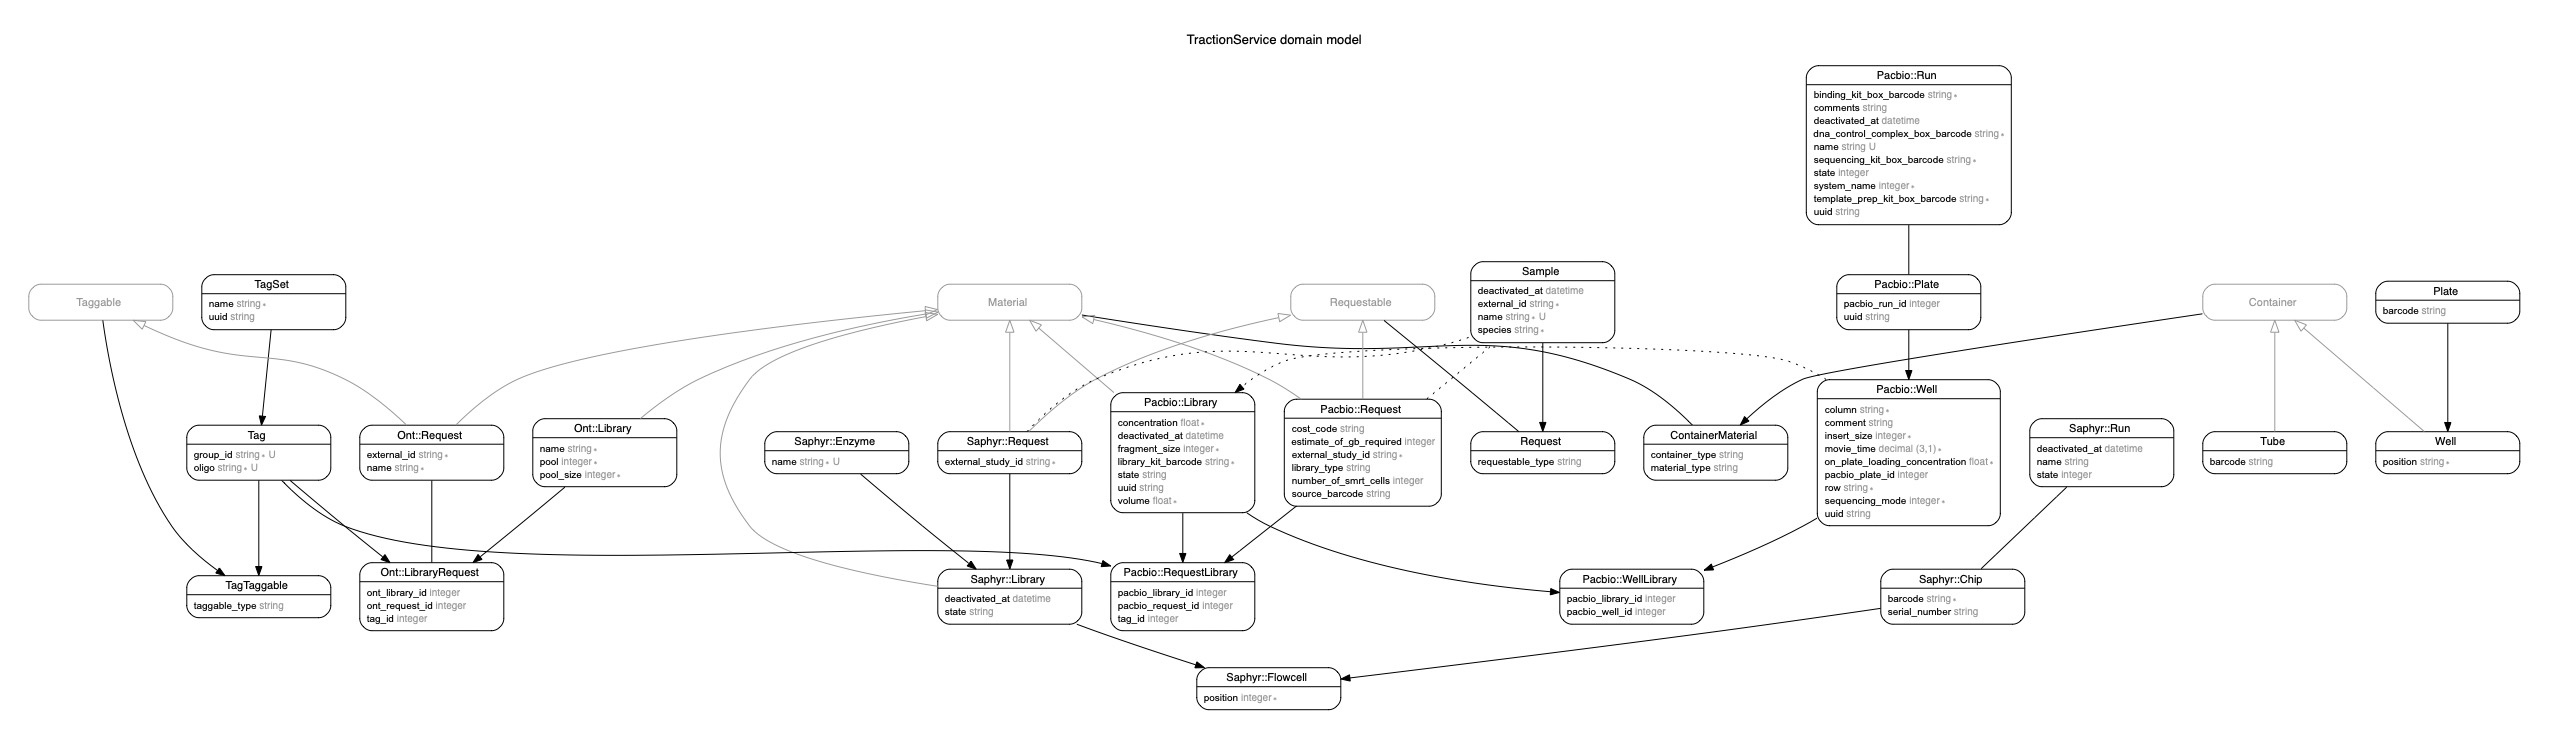
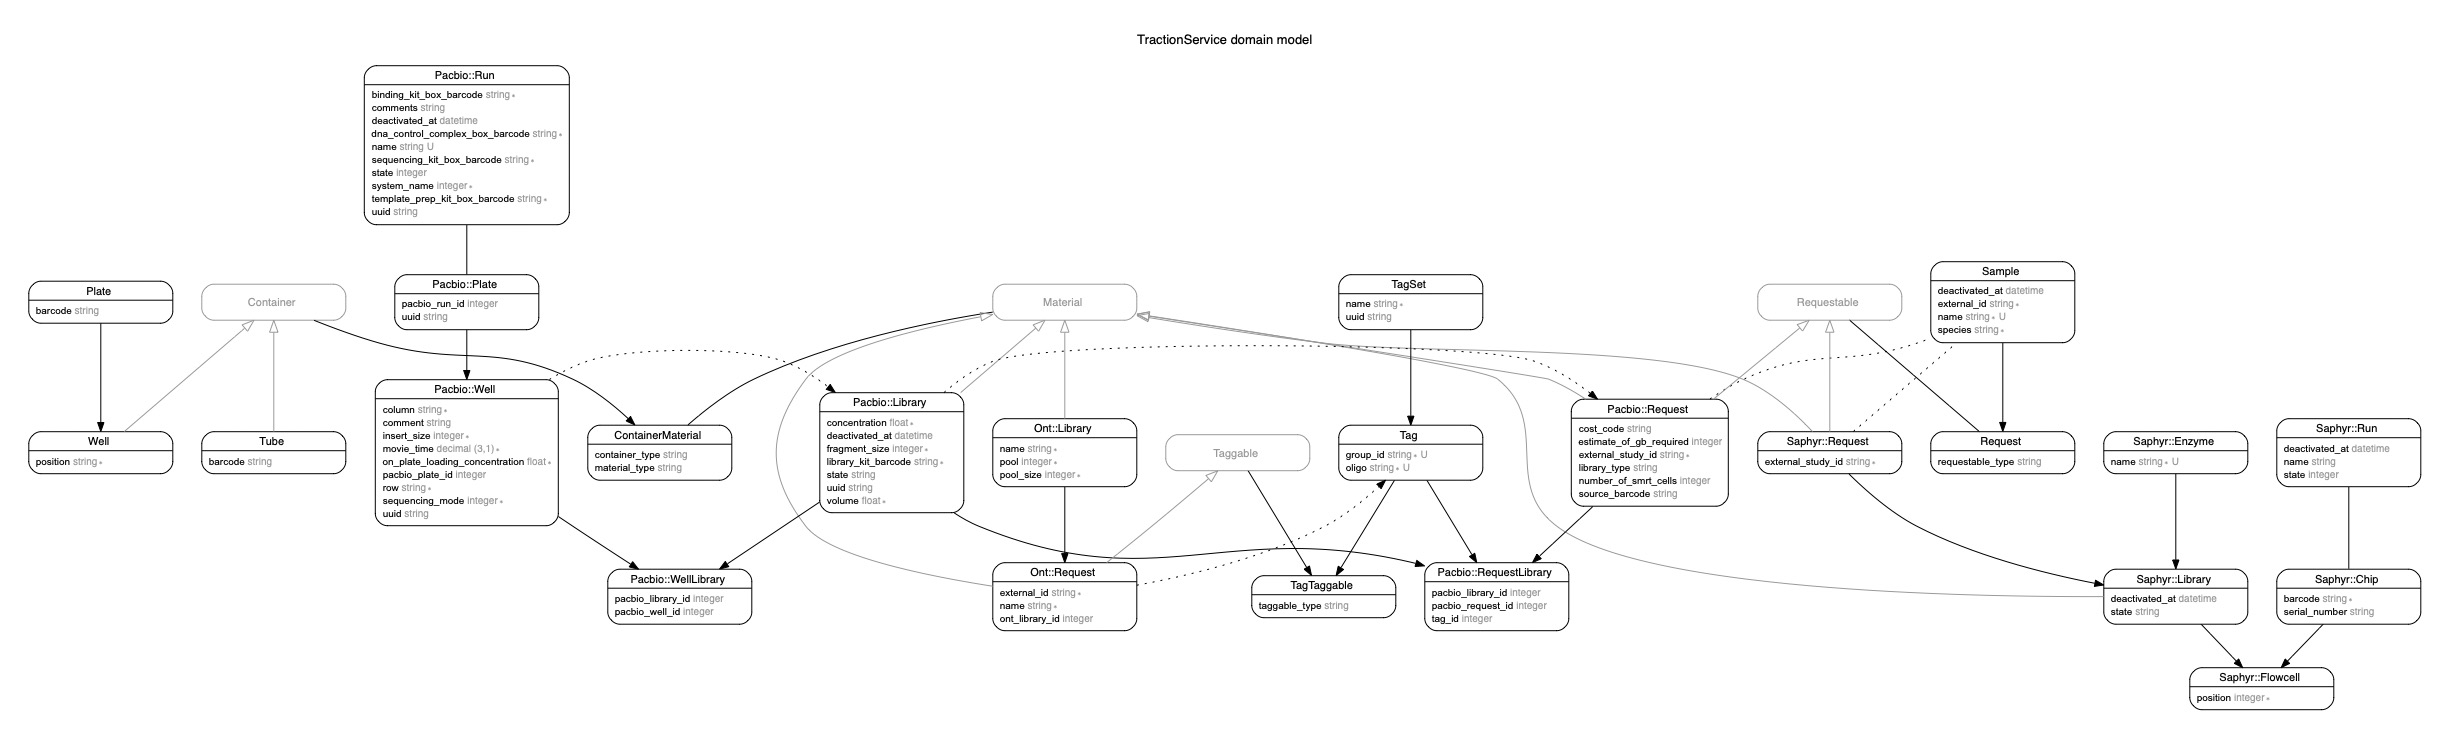
Remove Ont::LibraryRequest join table

diff --git a/db/schema.rb b/db/schema.rb
@@ -31,22 +31,13 @@ ActiveRecord::Schema.define(version: 2020_05_11_095257) do
     t.datetime "updated_at", precision: 6, null: false
   end
 
-  create_table "ont_library_requests", force: :cascade do |t|
-    t.integer "ont_library_id"
-    t.integer "ont_request_id"
-    t.integer "tag_id"
-    t.datetime "created_at", precision: 6, null: false
-    t.datetime "updated_at", precision: 6, null: false
-    t.index ["ont_library_id"], name: "index_ont_library_requests_on_ont_library_id"
-    t.index ["ont_request_id"], name: "index_ont_library_requests_on_ont_request_id"
-    t.index ["tag_id"], name: "index_ont_library_requests_on_tag_id"
-  end
-
   create_table "ont_requests", force: :cascade do |t|
     t.datetime "created_at", precision: 6, null: false
     t.datetime "updated_at", precision: 6, null: false
+    t.integer "ont_library_id"
     t.string "name"
     t.string "external_id"
+    t.index ["ont_library_id"], name: "index_ont_requests_on_ont_library_id"
   end
 
   create_table "pacbio_libraries", force: :cascade do |t|

diff --git a/app/models/ont/request.rb b/app/models/ont/request.rb
@@ -6,8 +6,8 @@ module Ont
     include Material
     include Taggable
 
-    has_one :library_request, foreign_key: :ont_request_id,
-                              inverse_of: :request, dependent: :destroy
+    belongs_to :library, foreign_key: :ont_library_id, inverse_of: :requests,
+                         dependent: :destroy, optional: true
     validates :name, :external_id, presence: true
   end
 end

diff --git a/app/models/ont/library.rb b/app/models/ont/library.rb
@@ -5,8 +5,8 @@ module Ont
   class Library < ApplicationRecord
     include Material
 
-    has_many :library_requests, foreign_key: :ont_library_id,
-                                inverse_of: :library, dependent: :destroy
+    has_many :requests, foreign_key: :ont_library_id,
+                        inverse_of: :library, dependent: :nullify
 
     validates :name, :pool, :pool_size, presence: true
 

diff --git a/db/migrate/20200501073510_create_ont_libraries.rb b/db/migrate/20200501073510_create_ont_libraries.rb
@@ -6,5 +6,9 @@ class CreateOntLibraries < ActiveRecord::Migration[6.0]
       t.integer :pool_size
       t.timestamps
     end
+
+    change_table :ont_requests do |t|
+      t.belongs_to :ont_library, index: true
+    end
   end
 end
